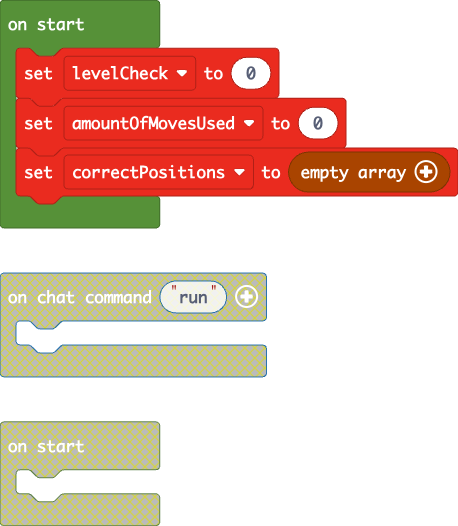
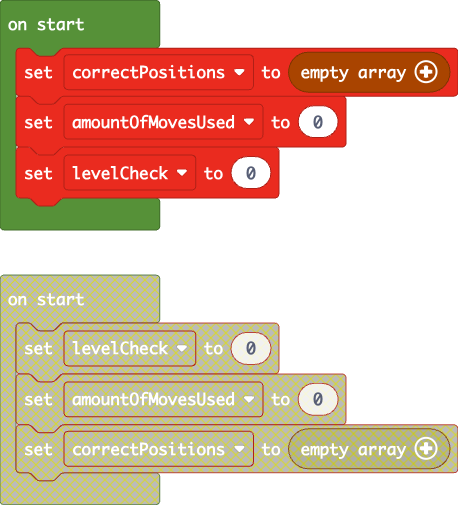
Update README.md, main.blocks, main.ts, custom_functions.ts

diff --git a/custom_functions.ts b/custom_functions.ts
@@ -24,8 +24,15 @@ namespace CodeCosmos {
 
     //% block="agent verzamel plastic"
     export function collectPlastic() {
-        agent.destroy(FORWARD);
-        player.say("levelCheck=" + levelCheck)
+        if (agent.inspect(AgentInspection.Block, FORWARD) === YELLOW_WOOL) {
+            levelCheck++;
+            agent.destroy(FORWARD);
+        } else {
+            levelCheck = 0;
+            player.execute(`execute @c ~ ~ ~ particle rwm:barrier ~ ~1 ~`);
+        }
+
+        player.execute('scoreboard players set @a levelCheck ' + levelCheck)
         player.execute("function levels/collectPlastic");
     }
 }

diff --git a/main.ts b/main.ts
@@ -1,3 +1,3 @@
-let levelCheck = 0
-let amountOfMovesUsed = 0
 let correctPositions: number[] = []
+let amountOfMovesUsed = 0
+let levelCheck = 0

diff --git a/README.md b/README.md
@@ -1,6 +1,6 @@
 <!-- ### @hideIteration true -->
 ### @flyoutOnly true
-# Missie 3 (v1.5)
+# Missie 3 (v1.6)
 ```blocks
 player.onChat("run", function () {
     for (let index = 0; index < 4; index++) {
